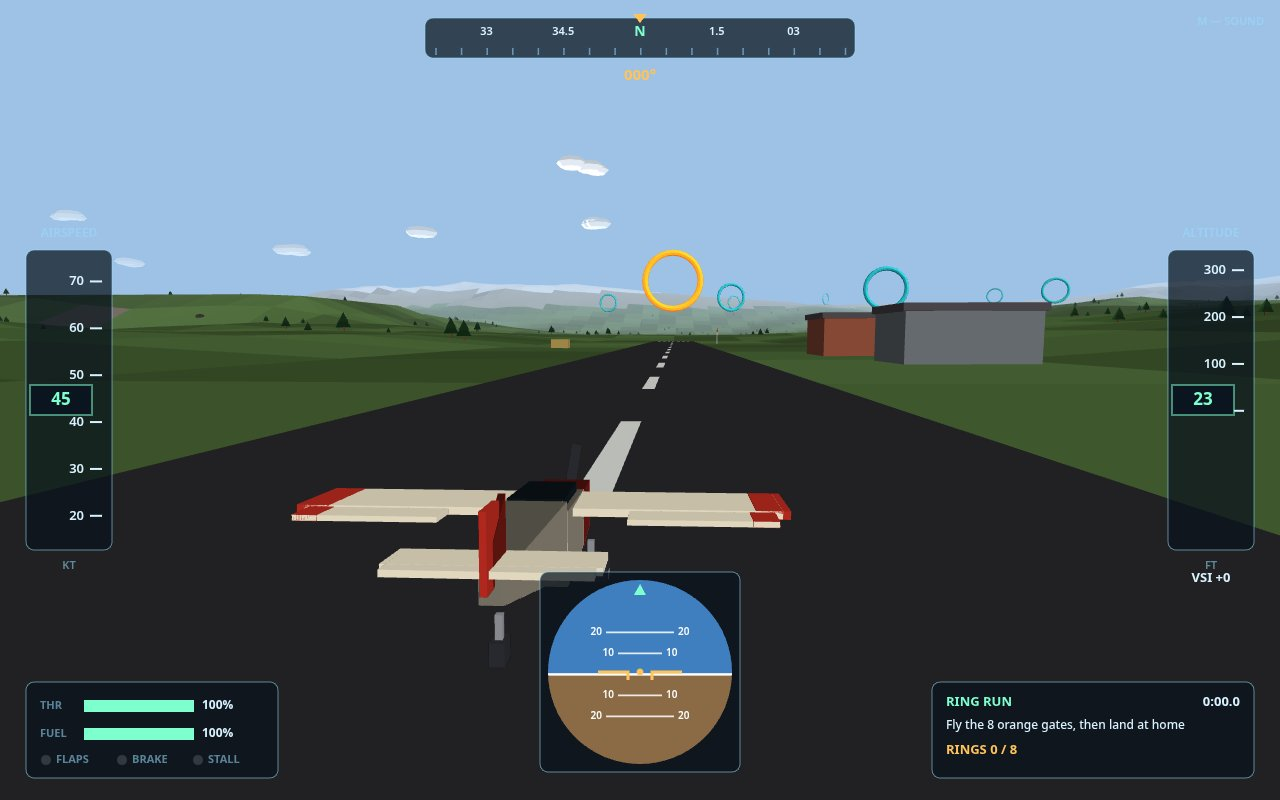
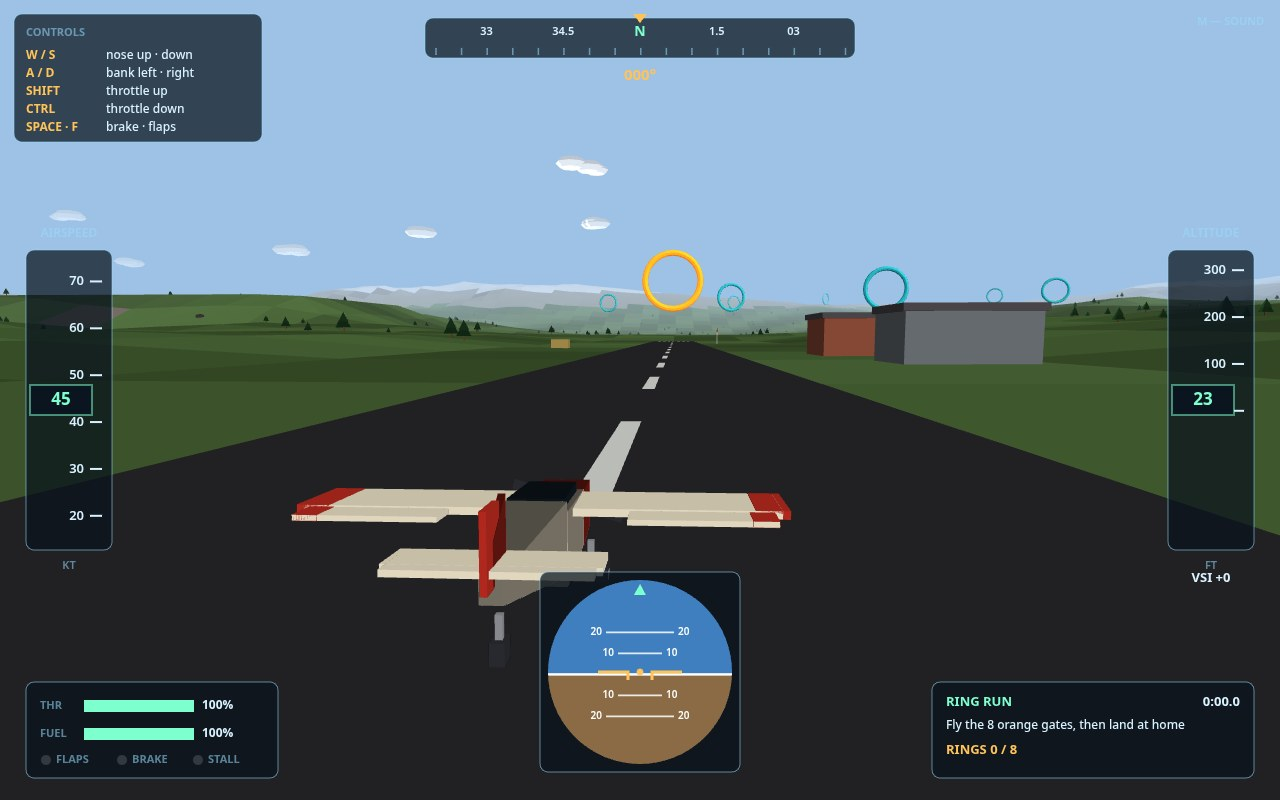
Controls rework + performance tune per player feedback
- WASD flies the plane: W/S pitch, A/D bank (arrows kept as backup)
- Throttle moved to Shift (up) / Ctrl (down), still latching
- Mouse steering removed entirely; keyboard only
- Persistent CONTROLS reminder panel, top-left of the flight HUD
- Engine 10.5 -> 13.5 m/s^2, drag coeff 0.0038 -> 0.0023:
  level top speed ~102 KT -> ~149 KT, much brisker takeoff roll
- Menu help and in-flight hint updated to the new keys
- Screenshots re-shot

Changed region(s): [[0.0, 0.0, 0.2188, 0.1875]]

diff --git a/game/src/input.js b/game/src/input.js
@@ -1,12 +1,13 @@
-// input.js — keyboard and mouse flight controls. The yoke is the arrow
-// keys or the mouse (move it like a stick); the throttle latches with W/S
-// and is read back from the flight model, so every system agrees.
+// input.js — keyboard-only flight controls. WASD flies the plane:
+// W/S pitch the nose up/down, A/D bank left/right (the arrow keys mirror
+// them as a backup). The throttle latches with Shift (up) and Ctrl
+// (down) and is read back from the flight model, so every system agrees.
+// The mouse never steers; it only clicks menu buttons.
 
 export class Input {
   constructor(canvas) {
     this.keys = new Set();
     this.edges = new Set();
-    this.mouse = { x: 0, y: 0, seen: false };
     this.throttleDelta = 0;
 
     addEventListener('keydown', (e) => {
@@ -16,12 +17,6 @@ export class Input {
     });
     addEventListener('keyup', (e) => this.keys.delete(e.code));
     addEventListener('blur', () => this.keys.clear());
-    canvas.addEventListener('mousemove', (e) => {
-      const r = canvas.getBoundingClientRect();
-      this.mouse.x = ((e.clientX - r.left) / r.width) * 2 - 1;
-      this.mouse.y = ((e.clientY - r.top) / r.height) * 2 - 1;
-      this.mouse.seen = true;
-    });
   }
 
   // True once per physical press.
@@ -33,35 +28,36 @@ export class Input {
   endFrame() { this.edges.clear(); }
 
   // The control deflections the flight model consumes, each -1..1.
+  // W climbs, S descends; A banks left, D banks right.
   get pitch() {
     let v = 0;
-    if (this.keys.has('ArrowUp')) v += 1;
-    if (this.keys.has('ArrowDown')) v -= 1;
-    if (v === 0 && this.mouse.seen) v = -this.mouse.y * 0.9;
+    if (this.keys.has('KeyW') || this.keys.has('ArrowUp')) v += 1;
+    if (this.keys.has('KeyS') || this.keys.has('ArrowDown')) v -= 1;
     return Math.max(-1, Math.min(1, v));
   }
 
   get roll() {
     let v = 0;
-    if (this.keys.has('ArrowRight')) v += 1;
-    if (this.keys.has('ArrowLeft')) v -= 1;
-    if (v === 0 && this.mouse.seen) v = this.mouse.x * 0.9;
+    if (this.keys.has('KeyD') || this.keys.has('ArrowRight')) v += 1;
+    if (this.keys.has('KeyA') || this.keys.has('ArrowLeft')) v -= 1;
     return Math.max(-1, Math.min(1, v));
   }
 
   get rudder() {
+    // A/D double as rudder so she still steers while taxiing on the ground.
     let v = 0;
-    if (this.keys.has('KeyD')) v += 1;
-    if (this.keys.has('KeyA')) v -= 1;
+    if (this.keys.has('KeyD') || this.keys.has('ArrowRight')) v += 1;
+    if (this.keys.has('KeyA') || this.keys.has('ArrowLeft')) v -= 1;
     return v;
   }
 
   get brake() { return this.keys.has('Space'); }
 
   update() {
+    // Latched throttle: hold Shift to spool up, Ctrl to spool down.
     let d = 0;
-    if (this.keys.has('KeyW')) d += 0.55;
-    if (this.keys.has('KeyS')) d -= 0.55;
+    if (this.keys.has('ShiftLeft') || this.keys.has('ShiftRight')) d += 0.55;
+    if (this.keys.has('ControlLeft') || this.keys.has('ControlRight')) d -= 0.55;
     this.throttleDelta = d;
   }
 }

diff --git a/game/src/hud.js b/game/src/hud.js
@@ -176,6 +176,27 @@ export class Hud {
     this.text(readout, x + 52 * s + w, y, 12 * s, TEXT, 'left', 700);
   }
 
+  // Persistent key reminder, top-left corner, visible for the whole
+  // flight so a new pilot never has to memorise the controls first.
+  drawControls() {
+    const s = this.s;
+    const x = 14 * s, y = 14 * s;
+    this.panel(x, y, 248 * s, 128 * s);
+    this.text('CONTROLS', x + 12 * s, y + 19 * s, 11 * s, LINE, 'left', 700);
+    const rows = [
+      ['W / S', 'nose up · down'],
+      ['A / D', 'bank left · right'],
+      ['SHIFT', 'throttle up'],
+      ['CTRL', 'throttle down'],
+      ['SPACE · F', 'brake · flaps'],
+    ];
+    rows.forEach((row, i) => {
+      const ry = y + 42 * s + i * 18 * s;
+      this.text(row[0], x + 12 * s, ry, 12 * s, AMBER, 'left', 700);
+      this.text(row[1], x + 92 * s, ry, 12 * s, TEXT, 'left', 500);
+    });
+  }
+
   draw(view) {
     const c = this.ctx, s = this.s;
     const W = this.canvas.width, H = this.canvas.height;
@@ -236,6 +257,8 @@ export class Hud {
 
     this.text(view.muted ? 'SOUND OFF (M)' : 'M — SOUND', W - 16 * s, 22 * s, 11 * s, LINE, 'right', 600);
 
+    this.drawControls();
+
     if (view.mode === 'complete') this.drawEnd(view, true);
     if (view.mode === 'crashed') this.drawEnd(view, false);
   }
@@ -261,8 +284,8 @@ export class Hud {
     });
 
     const controls = [
-      ['↑ / ↓ or mouse', 'climb · descend'], ['← / → or mouse', 'bank and turn'],
-      ['A / D', 'rudder'], ['W / S', 'throttle'],
+      ['W / S · ↑ / ↓', 'climb · descend'], ['A / D · ← / →', 'bank and turn'],
+      ['SHIFT', 'throttle up'], ['CTRL', 'throttle down'],
       ['F', 'flaps'], ['SPACE', 'wheel brake'],
       ['R', 'restart flight'], ['M', 'sound on/off'],
     ];

diff --git a/game/src/plane.js b/game/src/plane.js
@@ -127,8 +127,8 @@ export class FlightModel {
     this.heading += turnRate * dt * (airborne ? 1 : clamp(this.speed / 10, 0, 1));
 
     // --- forces along the flight path ---
-    const engineAccel = this.fuel > 0 ? this.throttle * 10.5 : 0;
-    const drag = 0.0038 * this.speed * this.speed + (this.flaps ? 1.6 : 0) + (this.brake && !airborne ? 6.5 : 0);
+    const engineAccel = this.fuel > 0 ? this.throttle * 13.5 : 0;
+    const drag = 0.0023 * this.speed * this.speed + (this.flaps ? 1.6 : 0) + (this.brake && !airborne ? 6.5 : 0);
     const gravityAlong = 9.81 * Math.sin(this.pitch);
     this.speed += (engineAccel - drag * Math.sign(this.speed) - gravityAlong) * dt;
     if (!airborne) this.speed = Math.max(0, this.speed);

diff --git a/game/src/main.js b/game/src/main.js
@@ -98,7 +98,7 @@ function startMission(index) {
   message = null;
   camPos = null;
   mode = 'fly';
-  showMessage(mission.title.toUpperCase(), 'W/S throttle · arrows or mouse to fly · F flaps', 'info', 3.4);
+  showMessage(mission.title.toUpperCase(), 'WASD to fly · SHIFT throttle up · CTRL throttle down · F flaps', 'info', 3.4);
 }
 
 function endFlight(lines) {
